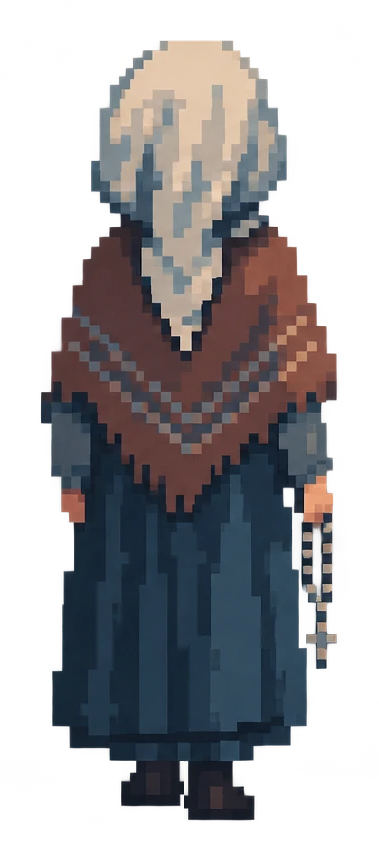
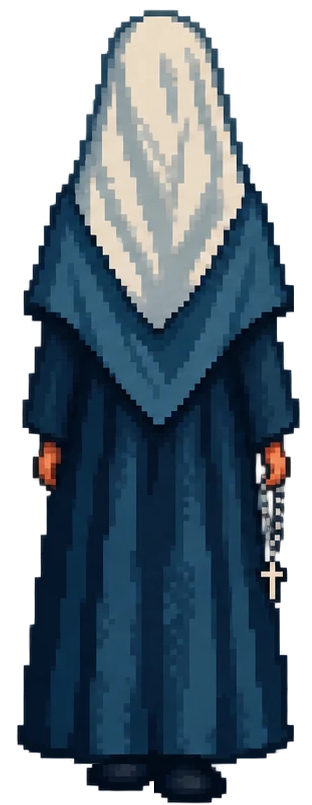
Replace Bernadette with the new sprite sheet; add walk cycle and idle breathing
The three facings are cut straight from the maintainer's new sheet (no
resampling) onto one shared canvas, with only lossy-WebP alpha noise cleaned.
Walk frames keep everything above the feet identical to the idle art and move
only the boot pixels, clipped behind the hem. New breathing frames sink the
upper body by dropping a few rows of plain skirt at a seam; hem and boots stay
fixed.

updateFacingAnimation() now plays an optional idle_<id>_<facing> animation
when standing still, falling back to the static texture for characters that
don't register one (only Bernadette does).

Claude-Session: https://claude.ai/code/session_01SDh85j35maCe9Ux2UrYCxE

diff --git a/src/assets/player/bernadetteSprite.ts b/src/assets/player/bernadetteSprite.ts
@@ -1,25 +1,35 @@
 import Phaser from 'phaser';
-import { textureKeyFor, walkAnimKeyFor, type FacingKey } from '../../pixelart/characters';
+import { idleAnimKeyFor, textureKeyFor, walkAnimKeyFor, type FacingKey } from '../../pixelart/characters';
 import sideIdleUrl from './bernadette_side_idle.png';
 import sideWalkA1Url from './bernadette_side_walk_a1.png';
 import sideWalkA2Url from './bernadette_side_walk_a2.png';
 import sideWalkB1Url from './bernadette_side_walk_b1.png';
 import sideWalkB2Url from './bernadette_side_walk_b2.png';
+import sideBreath1Url from './bernadette_side_breath_1.png';
+import sideBreath2Url from './bernadette_side_breath_2.png';
 import backIdleUrl from './bernadette_back_idle.png';
 import backWalkA1Url from './bernadette_back_walk_a1.png';
 import backWalkA2Url from './bernadette_back_walk_a2.png';
 import backWalkB1Url from './bernadette_back_walk_b1.png';
 import backWalkB2Url from './bernadette_back_walk_b2.png';
+import backBreath1Url from './bernadette_back_breath_1.png';
+import backBreath2Url from './bernadette_back_breath_2.png';
 import frontIdleUrl from './bernadette_front_idle.png';
 import frontWalkA1Url from './bernadette_front_walk_a1.png';
 import frontWalkA2Url from './bernadette_front_walk_a2.png';
 import frontWalkB1Url from './bernadette_front_walk_b1.png';
 import frontWalkB2Url from './bernadette_front_walk_b2.png';
+import frontBreath1Url from './bernadette_front_breath_1.png';
+import frontBreath2Url from './bernadette_front_breath_2.png';
 
 /**
- * The maintainer's own finished artwork for the gameplay player character. The idle crops are
- * byte-identical to the spritesheet the maintainer supplied (re-verified against a fresh copy of
- * that sheet, pixel for pixel, in all three facings) — never redrawn/recolored/redesigned.
+ * The maintainer's own finished artwork for the gameplay player character (second version of the
+ * sheet: side, front, back). Each idle image is that figure cut straight out of the sheet --
+ * never redrawn, recolored or resampled -- and placed on one common 312x805 canvas shared by every
+ * facing and every frame (feet on the bottom row, horizontally centred on the hem), so switching
+ * facing or frame never changes her size or anchor. The only change to the source pixels is alpha
+ * cleanup of the lossy-WebP export: near-invisible background noise (alpha <= 8) became fully
+ * transparent and the near-opaque body (alpha ~253) became fully opaque.
  *
  * `BERNADETTE_FRAME_HEIGHT` started at 72px display, became 40% of that (28.8), then 2x *that*
  * (57.6), then 85% of that (48.96), per successive explicit resize requests, each relative to her
@@ -29,20 +39,24 @@ import frontWalkB2Url from './bernadette_front_walk_b2.png';
  * shadow via `SHADOW_SCALE`).
  *
  * Walk frames (`_walk_a1/a2/b1/b2`): each idle image splits cleanly at a measured `feet_top` row
- * (front 762, back 761, side 776) below which there is nothing but legs and boots. Every pixel
- * above that row -- head, torso, poncho, hands, rosary and the entire skirt -- is copied verbatim
- * into every walk frame (verified identical to idle, frame by frame). Only the legs/boots below it
- * are recomposed, by pure integer translation of the original leg/boot pixels (no resampling, no
- * blending of new colors), and whatever a raised foot would push above `feet_top` is clipped away:
- * the leg disappears *behind* the hem rather than being painted over it.
+ * (side 760, front 758, back 764) below which there is nothing but boots. Every pixel above that
+ * row -- head, veil, cape, hands, rosary and the entire habit -- is copied verbatim into every walk
+ * frame (verified identical to idle, frame by frame). Only the boots below it are recomposed, by
+ * pure integer translation of the original boot pixels, and whatever a raised foot would push
+ * above `feet_top` is clipped away: the foot disappears *behind* the hem rather than over it.
  *  - Front/back: the stepping foot rises behind the hem (half, then full lift) while the other
  *    stays planted; `a*` lifts the left foot, `b*` the right.
- *  - Side: idle is the passing pose; stride frames spread the near leg forward and a slightly
- *    darkened copy of the same leg (the far leg) back with its heel raised, `a*` near-foot-forward,
+ *  - Side: idle is the passing pose; stride frames spread the near foot forward and a slightly
+ *    darkened copy of it (the far foot) back with its heel raised, `a*` near-foot-forward,
  *    `b*` far-foot-forward.
  * In every frame the planted foot keeps the idle pose's exact lowest row, so the ground-contact
- * line and the canvas/origin never move. Hands stay still: moving them would mean painting over
- * the skirt or inventing what's behind them.
+ * line and the canvas/origin never move.
+ *
+ * Breathing frames (`_breath_1/2`): everything above a seam row low in the skirt sinks by 5 / 10
+ * native px (about half / one framebuffer pixel at her display size), by dropping that many rows
+ * of the plain vertically-striped skirt at the seam -- whole rows of the original pixels, no
+ * resampling. Below the seam (hem and boots) nothing changes. The seam row was picked per facing
+ * where dropping rows is least visible (side 662, front 631, back 701).
  */
 const BERNADETTE_DISPLAY_HEIGHT_BEFORE_THIS_RESIZE = 72 * 0.4 * 2;
 export const BERNADETTE_FRAME_HEIGHT = BERNADETTE_DISPLAY_HEIGHT_BEFORE_THIS_RESIZE * 0.85;
@@ -60,6 +74,11 @@ const WALK_URLS_BY_FACING: Record<FacingKey, Record<WalkStep, string>> = {
   up: { a1: backWalkA1Url, a2: backWalkA2Url, b1: backWalkB1Url, b2: backWalkB2Url },
   down: { a1: frontWalkA1Url, a2: frontWalkA2Url, b1: frontWalkB1Url, b2: frontWalkB2Url },
 };
+const BREATH_URLS_BY_FACING: Record<FacingKey, [string, string]> = {
+  side: [sideBreath1Url, sideBreath2Url],
+  up: [backBreath1Url, backBreath2Url],
+  down: [frontBreath1Url, frontBreath2Url],
+};
 const ALL_FACINGS: FacingKey[] = ['down', 'up', 'side'];
 
 /** Walk-cycle frame keys never go through the shared `textureKeyFor()`/`StepFrame` system (that
@@ -67,6 +86,10 @@ const ALL_FACINGS: FacingKey[] = ['down', 'up', 'side'];
  * local to this file so these extra frames can't affect any other character. */
 function walkFrameKey(facing: FacingKey, step: WalkStep): string {
   return `${textureKeyFor('bernadette', facing, null)}_walk_${step}`;
+}
+
+function breathFrameKey(facing: FacingKey, n: 1 | 2): string {
+  return `${textureKeyFor('bernadette', facing, null)}_breath_${n}`;
 }
 
 /**
@@ -81,6 +104,8 @@ export function preloadBernadetteSprite(scene: Phaser.Scene): void {
     WALK_STEPS.forEach((step) => {
       scene.load.image(walkFrameKey(facing, step), WALK_URLS_BY_FACING[facing][step]);
     });
+    scene.load.image(breathFrameKey(facing, 1), BREATH_URLS_BY_FACING[facing][0]);
+    scene.load.image(breathFrameKey(facing, 2), BREATH_URLS_BY_FACING[facing][1]);
   });
 }
 
@@ -91,14 +116,19 @@ export function preloadBernadetteSprite(scene: Phaser.Scene): void {
  *
  * One walk animation per facing, 8 frames at 12fps (~0.67s per full two-step cycle):
  * `[idle, a1, a2, a1, idle, b1, b2, b1]` -- each foot eases up and back down rather than snapping.
- * `Player.ts` only plays this while actually moving and returns to the idle texture the instant she
- * stops.
+ * `Player.ts` only plays this while actually moving.
+ *
+ * One idle (breathing) animation per facing, played whenever she stands still (including while
+ * locked for dialogue): rest -> half -> full exhale -> half, about 2.4s per breath. It starts on
+ * the rest pose, so stopping never jumps.
  */
 export function registerBernadetteSprite(scene: Phaser.Scene): void {
   ALL_FACINGS.forEach((facing) => {
     const idleKey = textureKeyFor('bernadette', facing, null);
     const key = (step: WalkStep) => walkFrameKey(facing, step);
-    [idleKey, ...WALK_STEPS.map(key)].forEach((k) => {
+    const breath1 = breathFrameKey(facing, 1);
+    const breath2 = breathFrameKey(facing, 2);
+    [idleKey, ...WALK_STEPS.map(key), breath1, breath2].forEach((k) => {
       scene.textures.get(k).setFilter(Phaser.Textures.FilterMode.LINEAR);
     });
 
@@ -108,6 +138,20 @@ export function registerBernadetteSprite(scene: Phaser.Scene): void {
         key: animKey,
         frames: [idleKey, key('a1'), key('a2'), key('a1'), idleKey, key('b1'), key('b2'), key('b1')].map((k) => ({ key: k })),
         frameRate: 12,
+        repeat: -1,
+      });
+    }
+
+    const idleAnimKey = idleAnimKeyFor('bernadette', facing);
+    if (!scene.anims.exists(idleAnimKey)) {
+      scene.anims.create({
+        key: idleAnimKey,
+        frames: [
+          { key: idleKey, duration: 900 },
+          { key: breath1, duration: 300 },
+          { key: breath2, duration: 900 },
+          { key: breath1, duration: 300 },
+        ],
         repeat: -1,
       });
     }

diff --git a/src/gameplay/spriteFacing.ts b/src/gameplay/spriteFacing.ts
@@ -1,5 +1,5 @@
 import type { CharacterId } from '../pixelart/characters';
-import { textureKeyFor, walkAnimKeyFor } from '../pixelart/characters';
+import { idleAnimKeyFor, textureKeyFor, walkAnimKeyFor } from '../pixelart/characters';
 
 export type Facing = 'down' | 'up' | 'left' | 'right';
 
@@ -44,8 +44,15 @@ export function updateFacingAnimation(
       sprite.play(animKey, true);
     }
   } else {
-    sprite.anims.stop();
-    sprite.setTexture(textureKeyFor(id, textureFacing, null));
+    const idleKey = idleAnimKeyFor(id, textureFacing);
+    if (sprite.scene.anims.exists(idleKey)) {
+      if (sprite.anims.currentAnim?.key !== idleKey || !sprite.anims.isPlaying) {
+        sprite.play(idleKey, true);
+      }
+    } else {
+      sprite.anims.stop();
+      sprite.setTexture(textureKeyFor(id, textureFacing, null));
+    }
   }
 
   return facing;

diff --git a/src/pixelart/characters.ts b/src/pixelart/characters.ts
@@ -126,6 +126,13 @@ export function walkAnimKeyFor(id: CharacterId, facing: FacingKey): string {
   return `walk_${id}_${facing}`;
 }
 
+/** Optional standing-still animation (e.g. breathing). Only characters that register one under
+ * this key get it -- `spriteFacing.ts#updateFacingAnimation()` falls back to the static idle
+ * texture for everyone else. */
+export function idleAnimKeyFor(id: CharacterId, facing: FacingKey): string {
+  return `idle_${id}_${facing}`;
+}
+
 function shadowGrid() {
   const grid = makeGrid(14, 6, '.');
   fillRect(grid, 2, 1, 11, 4, 'D');
